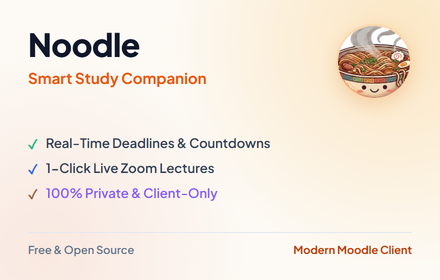
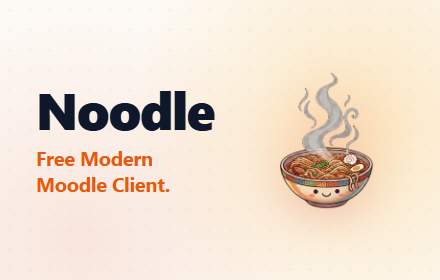
docs(promo): add high-res website showcase assets, update docs and test cases

Changed region(s): [[0.0591, 0.0857, 0.9455, 0.9143], [0.0591, 0.1143, 0.325, 0.2286], [0.0591, 0.8571, 0.325, 0.9143]]

diff --git a/website/index.html b/website/index.html
@@ -24,6 +24,7 @@
       <nav class="nav-center">
         <ul class="nav-menu">
           <li><a href="#features" class="nav-link">Features</a></li>
+          <li><a href="#showcase" class="nav-link">Showcase</a></li>
           <li><a href="#sync" class="nav-link">Google Tasks</a></li>
           <li><a href="#comparison" class="nav-link">Why Noodle?</a></li>
           <li><a href="#privacy" class="nav-link">Privacy</a></li>
@@ -133,8 +134,10 @@
             <div class="mockup-tab-pills">
               <button class="mockup-tab-btn active" data-target="mock-dash">Dashboard</button>
               <button class="mockup-tab-btn" data-target="mock-calendar">Calendar</button>
+              <button class="mockup-tab-btn" data-target="mock-grades">Grades & GPA</button>
               <button class="mockup-tab-btn" data-target="mock-coffee">Coffee Theme</button>
               <button class="mockup-tab-btn" data-target="mock-zoom">Zoom & Panopto</button>
+              <button class="mockup-tab-btn" data-target="mock-sync">Google Tasks</button>
             </div>
 
             <div class="mockup-platform-tag">
@@ -144,9 +147,104 @@
 
           <div class="mockup-image-holder">
             <img id="mock-dash" src="assets/promo-1-hero-overview.png" alt="Noodle Dashboard Overview" class="mockup-image active">
-            <img id="mock-calendar" src="assets/calendar-view.png" alt="Noodle Split-Pane Calendar View" class="mockup-image">
-            <img id="mock-coffee" src="assets/dashboard-coffee.png" alt="Noodle Coffee Theme" class="mockup-image">
+            <img id="mock-calendar" src="assets/promo-6-calendar-hub.png" alt="Noodle Split-Pane Calendar View" class="mockup-image">
+            <img id="mock-grades" src="assets/promo-7-grades-analytics.png" alt="Noodle Academic Grades & GPA Tracker" class="mockup-image">
+            <img id="mock-coffee" src="assets/promo-5-productivity-themes.png" alt="Noodle Coffee Theme" class="mockup-image">
             <img id="mock-zoom" src="assets/promo-3-zoom-hub.png" alt="Noodle Zoom Hub and Schedule" class="mockup-image">
+            <img id="mock-sync" src="assets/promo-8-google-tasks-sync.png" alt="Noodle Two-Way Google Tasks Sync" class="mockup-image">
+          </div>
+        </div>
+      </div>
+    </div>
+  </section>
+
+  <!-- VISUAL SHOWCASE & APP GALLERY -->
+  <section id="showcase" class="section">
+    <div class="container">
+      <div class="section-head">
+        <span class="section-tag">Visual Tour</span>
+        <h2 class="section-title">Designed for focus. Built for your semester.</h2>
+        <p class="section-subtitle">
+          Explore every view and feature in action — from deadline countdowns to split monthly planning.
+        </p>
+      </div>
+
+      <div class="gallery-grid">
+        <!-- Card 1: Modern Study Cockpit -->
+        <div class="gallery-card">
+          <div class="gallery-img-wrap">
+            <img src="assets/promo-1-hero-overview.png" alt="Study Cockpit Dashboard" loading="lazy">
+            <div class="gallery-overlay-badge">Study Cockpit</div>
+          </div>
+          <div class="gallery-card-body">
+            <div class="gallery-card-badge">Daily Focus</div>
+            <h4 class="gallery-card-title">Deadline Spotlight & Upcoming Queue</h4>
+            <p class="gallery-card-desc">Your closest homework submission pinned at the top with live timer, expandable topic files, and a prioritized to-do list.</p>
+          </div>
+        </div>
+
+        <!-- Card 2: Interactive Split-Pane Calendar -->
+        <div class="gallery-card">
+          <div class="gallery-img-wrap">
+            <img src="assets/promo-6-calendar-hub.png" alt="Split-Pane Calendar Hub" loading="lazy">
+            <div class="gallery-overlay-badge">Monthly Calendar</div>
+          </div>
+          <div class="gallery-card-body">
+            <div class="gallery-card-badge">Visual Scheduling</div>
+            <h4 class="gallery-card-title">Interactive Monthly Calendar Grid</h4>
+            <p class="gallery-card-desc">All course deadlines plotted onto a responsive calendar. Click any assignment pill to jump straight to submission requirements.</p>
+          </div>
+        </div>
+
+        <!-- Card 3: Two-Way Google Tasks Sync -->
+        <div class="gallery-card">
+          <div class="gallery-img-wrap">
+            <img src="assets/promo-8-google-tasks-sync.png" alt="Google Tasks & Calendar Sync" loading="lazy">
+            <div class="gallery-overlay-badge">2-Way Sync</div>
+          </div>
+          <div class="gallery-card-body">
+            <div class="gallery-card-badge">Everywhere You Study</div>
+            <h4 class="gallery-card-title">Google Tasks & Calendar Integration</h4>
+            <p class="gallery-card-desc">Automatic client-side sync creates a dedicated University task list. Check off tasks on your phone, watch, or browser.</p>
+          </div>
+        </div>
+
+        <!-- Card 4: Academic Grades & GPA Performance -->
+        <div class="gallery-card">
+          <div class="gallery-img-wrap">
+            <img src="assets/promo-7-grades-analytics.png" alt="Academic Grades & GPA Tracker" loading="lazy">
+            <div class="gallery-overlay-badge">GPA Tracker</div>
+          </div>
+          <div class="gallery-card-body">
+            <div class="gallery-card-badge">Academic Insight</div>
+            <h4 class="gallery-card-title">Smart GPA & Performance Analytics</h4>
+            <p class="gallery-card-desc">Real-time cumulative GPA estimation, per-course weighted averages, and complete history of submission grades and feedback.</p>
+          </div>
+        </div>
+
+        <!-- Card 5: Lecture Materials & Zoom Hub -->
+        <div class="gallery-card">
+          <div class="gallery-img-wrap">
+            <img src="assets/promo-3-zoom-hub.png" alt="Zoom Hub & Course Materials" loading="lazy">
+            <div class="gallery-overlay-badge">Materials Hub</div>
+          </div>
+          <div class="gallery-card-body">
+            <div class="gallery-card-badge">1-Click Access</div>
+            <h4 class="gallery-card-title">Course Slides & Live Zoom Detection</h4>
+            <p class="gallery-card-desc">Download course materials with exact file sizes, preview problem sets inline, and join active lectures via pulsing "Active Now" alerts.</p>
+          </div>
+        </div>
+
+        <!-- Card 6: Late-Night Themes & Instant Toolbar Popup -->
+        <div class="gallery-card">
+          <div class="gallery-img-wrap">
+            <img src="assets/promo-5-productivity-themes.png" alt="Coffee Theme & Toolbar Popup" loading="lazy">
+            <div class="gallery-overlay-badge">Productivity Suite</div>
+          </div>
+          <div class="gallery-card-body">
+            <div class="gallery-card-badge">Built for Late Nights</div>
+            <h4 class="gallery-card-title">Cozy Coffee Theme & Toolbar Popup</h4>
+            <p class="gallery-card-desc">Switch between warm paper light and cozy dark espresso themes. Check deadlines in 1 click right from your browser toolbar icon.</p>
           </div>
         </div>
       </div>
@@ -296,7 +394,7 @@
             </ul>
           </div>
           <div class="feature-preview-card">
-            <img src="assets/promo-2-deadlines-grades.png" alt="Google Tasks Synchronization" class="feature-preview-img">
+            <img src="assets/promo-8-google-tasks-sync.png" alt="Google Tasks Synchronization" class="feature-preview-img">
           </div>
         </div>
 
@@ -323,7 +421,7 @@
             </ul>
           </div>
           <div class="feature-preview-card">
-            <img src="assets/calendar-view.png" alt="Split-Pane Calendar" class="feature-preview-img">
+            <img src="assets/promo-6-calendar-hub.png" alt="Split-Pane Calendar" class="feature-preview-img">
           </div>
         </div>
 
@@ -557,6 +655,7 @@
             <h5>Product</h5>
             <ul class="footer-links">
               <li><a href="#features">Features</a></li>
+              <li><a href="#showcase">Visual Tour</a></li>
               <li><a href="#sync">Google Tasks</a></li>
               <li><a href="#comparison">Why Noodle?</a></li>
               <li><a href="#privacy">Privacy & Security</a></li>

diff --git a/website/styles.css b/website/styles.css
@@ -1606,3 +1606,109 @@ body::after {
     gap: 1.5rem;
   }
 }
+
+
+/* Visual Showcase & App Gallery */
+.gallery-grid {
+  display: grid;
+  grid-template-columns: repeat(3, 1fr);
+  gap: 1.85rem;
+  margin-top: 2.5rem;
+}
+
+@media (max-width: 1024px) {
+  .gallery-grid {
+    grid-template-columns: repeat(2, 1fr);
+  }
+}
+
+@media (max-width: 640px) {
+  .gallery-grid {
+    grid-template-columns: 1fr;
+  }
+}
+
+.gallery-card {
+  background: var(--bg-card);
+  border: 1px solid var(--border-light);
+  border-radius: var(--radius-md);
+  overflow: hidden;
+  box-shadow: var(--shadow-sm);
+  transition: transform var(--transition-smooth), box-shadow var(--transition-smooth), border-color var(--transition-smooth);
+  display: flex;
+  flex-direction: column;
+}
+
+.gallery-card:hover {
+  transform: translateY(-6px);
+  box-shadow: var(--shadow-lg);
+  border-color: var(--border-hover);
+}
+
+.gallery-img-wrap {
+  position: relative;
+  width: 100%;
+  aspect-ratio: 16 / 10;
+  overflow: hidden;
+  background: var(--bg-subtle);
+}
+
+.gallery-img-wrap img {
+  width: 100%;
+  height: 100%;
+  object-fit: cover;
+  object-position: top center;
+  transition: transform var(--transition-smooth);
+  display: block;
+}
+
+.gallery-card:hover .gallery-img-wrap img {
+  transform: scale(1.04);
+}
+
+.gallery-overlay-badge {
+  position: absolute;
+  bottom: 12px;
+  right: 12px;
+  background: rgba(15, 23, 42, 0.78);
+  backdrop-filter: blur(8px);
+  -webkit-backdrop-filter: blur(8px);
+  color: #ffffff;
+  font-size: 0.75rem;
+  font-weight: 700;
+  padding: 4px 10px;
+  border-radius: var(--radius-full);
+  letter-spacing: 0.3px;
+}
+
+.gallery-card-body {
+  padding: 1.4rem;
+  display: flex;
+  flex-direction: column;
+  flex: 1;
+}
+
+.gallery-card-badge {
+  display: inline-block;
+  align-self: flex-start;
+  font-size: 0.76rem;
+  font-weight: 700;
+  color: var(--accent-terracotta);
+  text-transform: uppercase;
+  letter-spacing: 0.5px;
+  margin-bottom: 0.45rem;
+}
+
+.gallery-card-title {
+  font-size: 1.12rem;
+  font-weight: 700;
+  color: var(--text-main);
+  line-height: 1.35;
+  margin-bottom: 0.5rem;
+}
+
+.gallery-card-desc {
+  font-size: 0.9rem;
+  color: var(--text-muted);
+  line-height: 1.55;
+}

diff --git a/apps/extension/e2e/sync-devtools.spec.ts b/apps/extension/e2e/sync-devtools.spec.ts
@@ -998,7 +998,7 @@ test.describe('DevTools & Sync Feedback Loop', () => {
     await syncButton.click();
 
     // Verify assignment cards appear in UI after sync
-    const firstAssignmentCard = optionsPage.locator('.assignment-card').filter({ hasText: 'מטלה 1 - רקורסיה ויעילות' });
+    const firstAssignmentCard = optionsPage.locator('.hero-spotlight-card, .queue-item').filter({ hasText: 'מטלה 1 - רקורסיה ויעילות' }).first();
     await expect(firstAssignmentCard).toBeVisible({ timeout: 10000 });
     console.log('[DevTools UI] Confirmed: 2 courses synced and rendered in Options Dashboard!');
 

diff --git a/docs/TEST_CASES.md b/docs/TEST_CASES.md
@@ -1301,10 +1301,10 @@ graph LR
 * **Description**: Validates the complete end-to-end sync lifecycle under DevTools inspection. Simulates valid Moodle REST API responses (`core_webservice_get_site_info`, `mod_assign_get_assignments`, `core_course_get_contents`, `gradereport_user_get_grade_items`), triggers sync via the Options UI button, streams all Service Worker execution milestones, and verifies that assignment cards immediately render in the Options dashboard DOM and persist in local storage.
 * **Automated Runner Command**: `pnpm test:devtools`
 
-#### TC-EXT-PROMO-01: High-Resolution Webstore Promotional Asset Suite Generation
-* **Platform Target**: `Extension (Chrome & Webstore)`
+#### TC-EXT-PROMO-01: High-Resolution Webstore & Website Promotional Asset Suite Generation
+* **Platform Target**: `Extension (Chrome & Webstore) & Website`
 * **Modality**: `Automated`
-* **Description**: Renders and exports 7 pixel-perfect, high-DPI marketing assets for the Chrome Web Store at Retina 2× resolution (2560×1600 slides, 2800×1120 marquee banner, and 880×560 small promo tile). Validates that all fonts load cleanly via `document.fonts.ready`, UI elements use student-first branding ("Smart Moodle Companion") with no official university affiliation claims, BiDi text alignment displays properly for bilingual strings, and all critical product features (deadlines, grades, Zoom hub, course file downloads, dark theme, toolbar popup) are showcased.
+* **Description**: Renders and exports 10 pixel-perfect, high-DPI marketing and web showcase assets at Retina 2× resolution (8 full 2560×1600 carousel slides, 2800×1120 marquee banner, and 880×560 redesigned non-industrial small promo tile). Validates clean, modern branding with no cramped checkmark dividers, authentic pastel color coding (#E07A5F and #A0613E), rich mock assignments dataset, and showcases across the Cockpit Dashboard, Assignments Hub, Course Materials & Zoom Hub, Manage Courses, Late-Night Themes, Split Calendar, Academic GPA Tracker, and Two-Way Google Tasks Sync.
 * **Automated Runner Command**: `node apps/extension/scripts/generate-promo-assets.mjs`
 
 ---

diff --git a/CHANGELOG.md b/CHANGELOG.md
@@ -8,6 +8,13 @@ The format is based on [Keep a Changelog](https://keepachangelog.com/en/1.0.0/),
 
 ## [Unreleased]
 ### Added
+- **Redesigned Clean Small Promo Tile (`apps/extension/scripts/generate-promo-assets.mjs`, `promo/promo-small-tile.png`, `website/assets/promo-small-tile.png`)**:
+  - Redesigned the Chrome Web Store small promo tile (440×280) to eliminate industrial dividers and checklist bullet points.
+  - Features clean, bold typography (`Noodle`, `Free Modern Moodle Client.`) on the left and the full, smiling mascot noodle bowl with a warm ambient aura and soft drop-shadow on the right over a warm cream pastel canvas.
+- **Extended Website Showcase Gallery & High-Res App Mockups (`website/index.html`, `website/styles.css`, `website/assets/`, `scripts/generate-promo-assets.mjs`)**:
+  - Added 3 new high-resolution promotional slides to the generation suite: Slide 6 (Visual Monthly Calendar Hub), Slide 7 (Academic Grades & GPA Tracker), and Slide 8 (Two-Way Google Tasks & Calendar Sync).
+  - Expanded the Hero Mockup switcher on `noodle.mantin.dev` to 6 live interactive tabs (`Dashboard`, `Calendar`, `Grades & GPA`, `Coffee Theme`, `Zoom & Panopto`, and `Google Tasks`).
+  - Added a dedicated responsive "Visual Tour & App Gallery" section (`#showcase`) with 6 feature showcase cards on the official landing website.
 ### Added
 - **Subtle Metallic Horizontal Glow Wave for Nearest Task (`apps/extension/src/options/App.tsx`, `App.css`)**:
   - Added an elegant, non-intrusive metallic horizontal glow wave animation (`.closest-metallic-wave`) across the single nearest pending deadline in the Upcoming To-Do queue.
